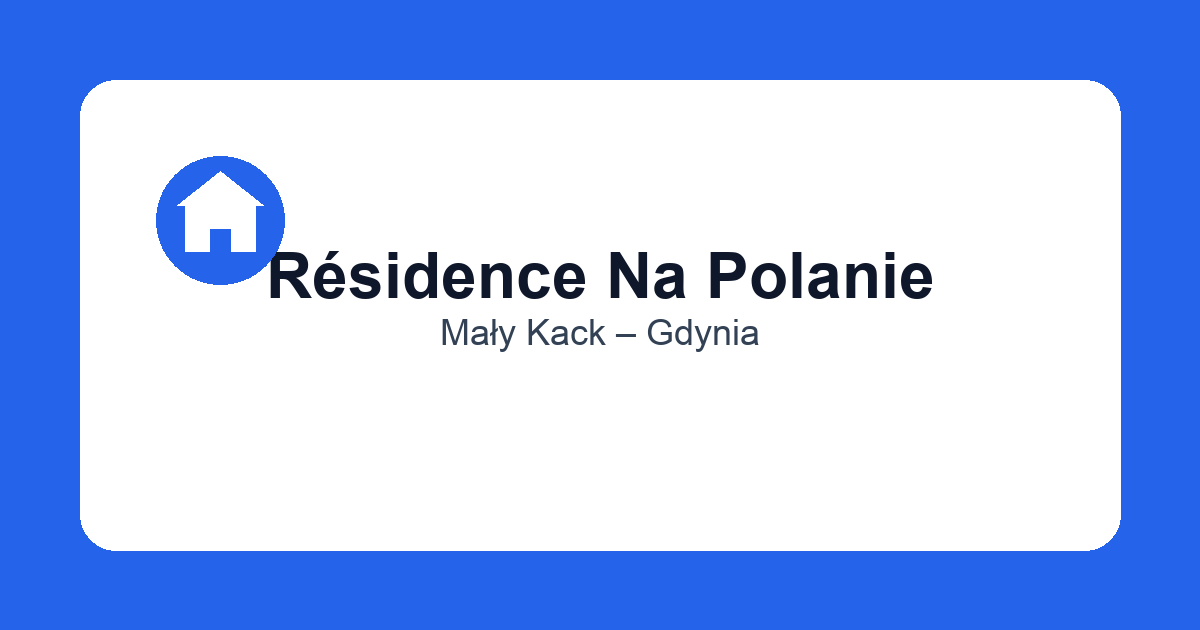
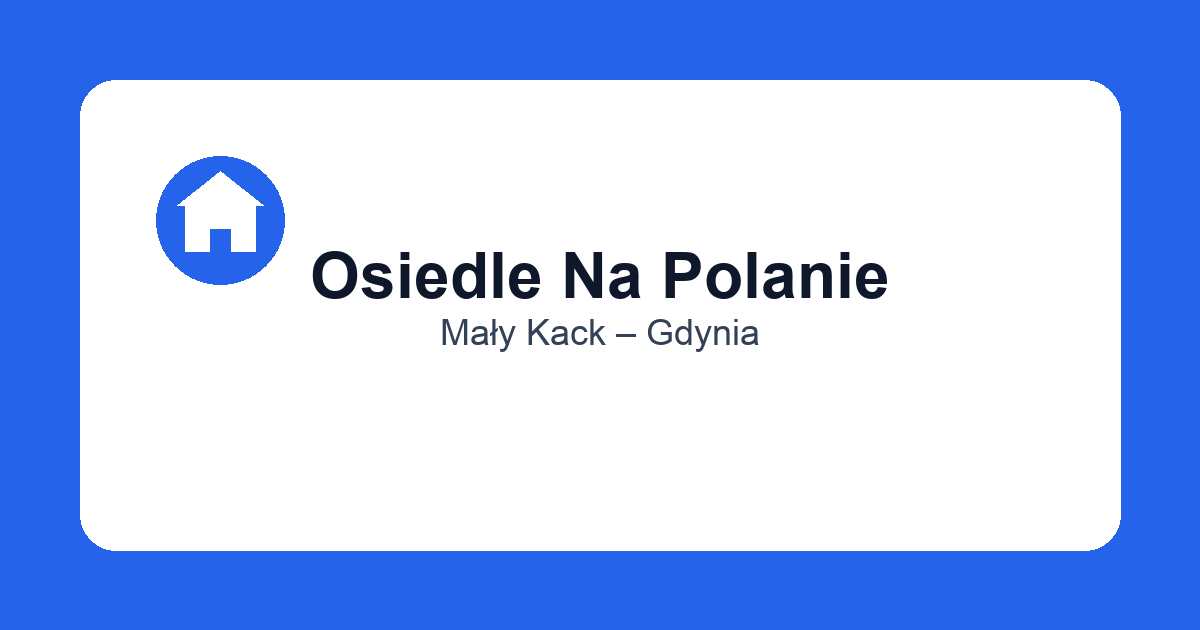
Test

Changed region(s): [[0.2158, 0.3921, 0.8017, 0.4825]]

diff --git a/index.html b/index.html
@@ -2,10 +2,10 @@
 <html lang="fr">
   <head>
     <meta charset="UTF-8" />
-    <title>Résidence Na Polanie – Mały Kack</title>
+    <title>Osiedle Na Polanie – Mały Kack</title>
     <meta
       name="description"
-      content="Application communautaire pour les habitants de la résidence Na Polanie : infos utiles, annonces entre voisins, événements et services."
+      content="Aplikacja społecznościowa dla mieszkańców osiedla Na Polanie: informacje, ogłoszenia, wydarzenia i usługi."
     />
     <meta
       name="viewport"
@@ -21,11 +21,11 @@
     <meta name="apple-mobile-web-app-status-bar-style" content="default" />
     <meta name="apple-mobile-web-app-title" content="Na Polanie" />
     <meta property="og:type" content="website" />
-    <meta property="og:site_name" content="Résidence Na Polanie" />
-    <meta property="og:title" content="Résidence Na Polanie – Mały Kack" />
+    <meta property="og:site_name" content="Osiedle Na Polanie" />
+    <meta property="og:title" content="Osiedle Na Polanie – Mały Kack" />
     <meta
       property="og:description"
-      content="Application communautaire pour les habitants de la résidence Na Polanie : infos utiles, annonces entre voisins, événements et services."
+      content="Aplikacja społecznościowa dla mieszkańców osiedla Na Polanie: informacje, ogłoszenia, wydarzenia i usługi."
     />
     <meta
       property="og:url"
@@ -38,10 +38,10 @@
     <meta property="og:image:width" content="1200" />
     <meta property="og:image:height" content="630" />
     <meta name="twitter:card" content="summary_large_image" />
-    <meta name="twitter:title" content="Résidence Na Polanie – Mały Kack" />
+    <meta name="twitter:title" content="Osiedle Na Polanie – Mały Kack" />
     <meta
       name="twitter:description"
-      content="Application communautaire pour les habitants de la résidence Na Polanie : infos utiles, annonces entre voisins, événements et services."
+      content="Aplikacja społecznościowa dla mieszkańców osiedla Na Polanie: informacje, ogłoszenia, wydarzenia i usługi."
     />
     <meta
       name="twitter:image"
